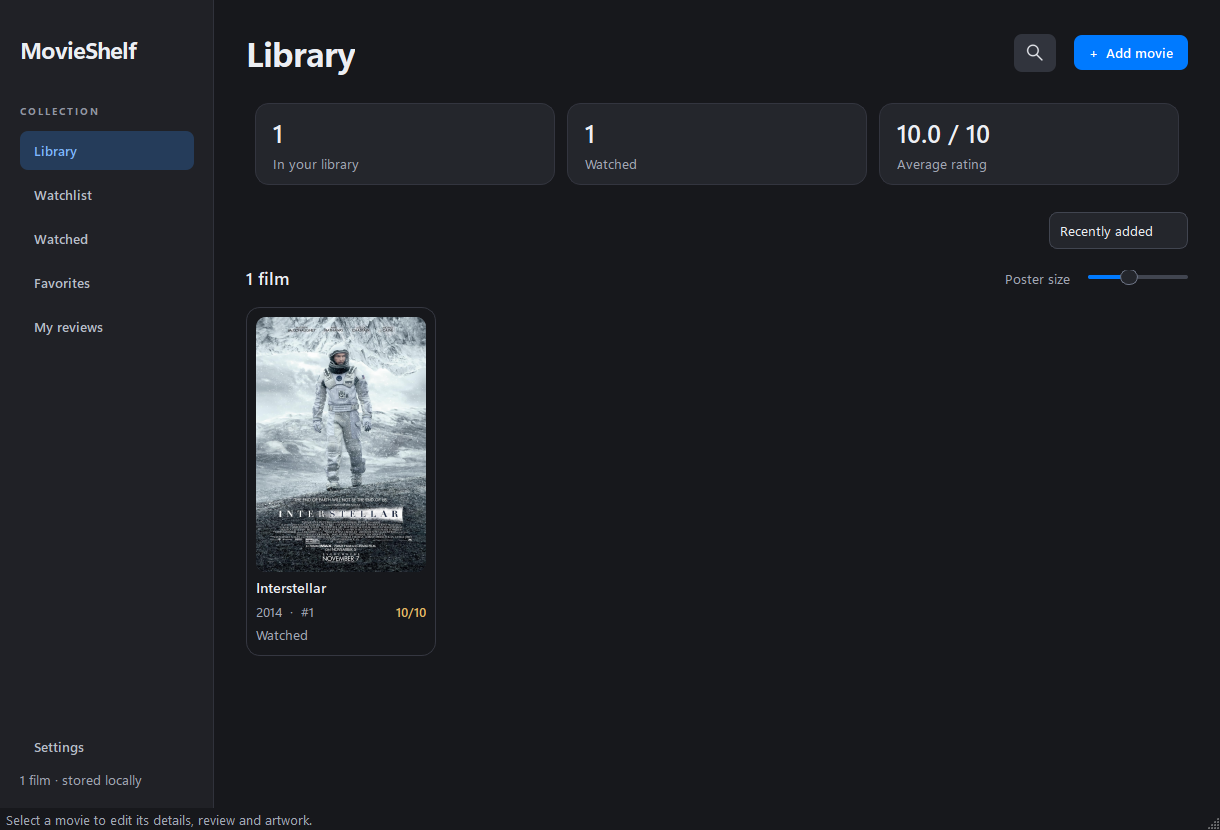
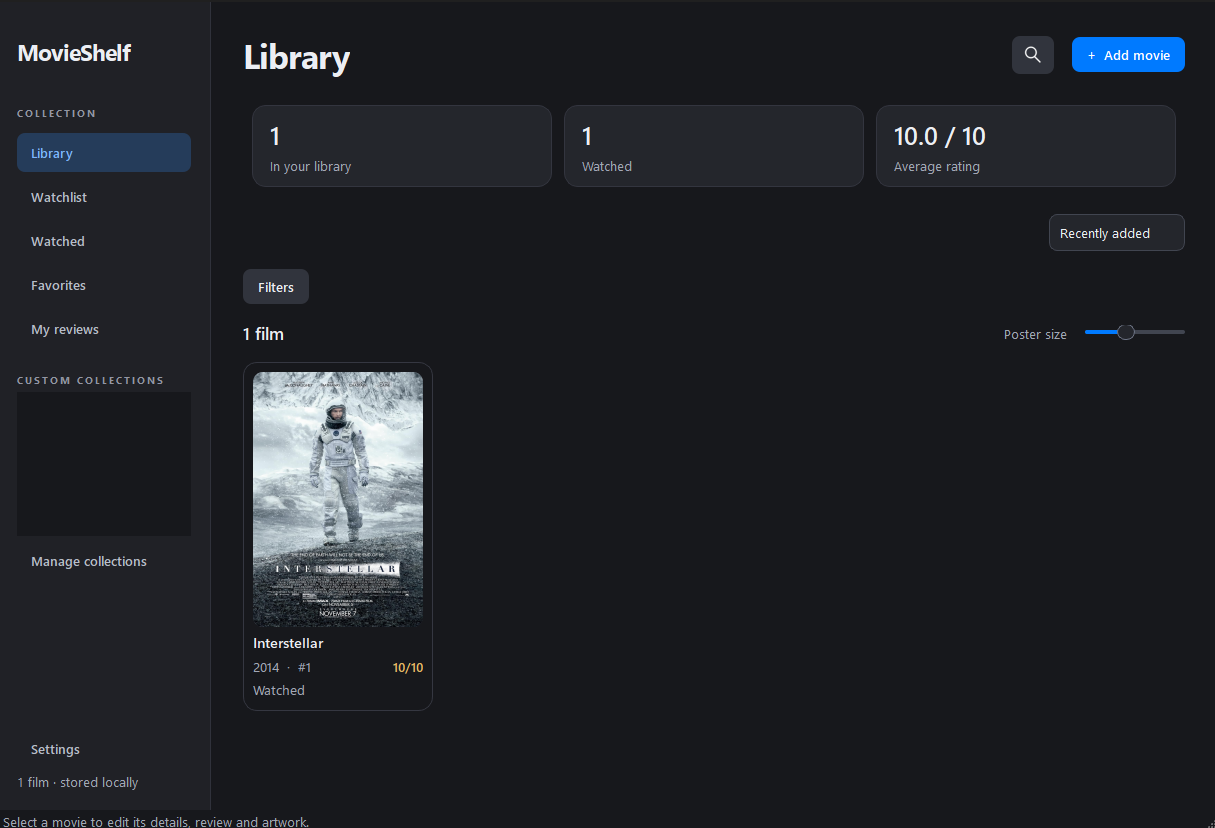
docs: screenshots updated, todo.md

diff --git a/desktop/TODO.md b/desktop/TODO.md
@@ -11,7 +11,7 @@
 
 # Completed Ideas
 
-- [-] Add Kazakh* and Russian interface localization.
-- [-] Add advanced filters for year, rating, watch status, and favorites.
-- [-] Support dragging images onto the poster editor and previewing the final crop at different card sizes.
-- [-] Add genres, tags, and custom collections for organizing films.
+- [X] Add Kazakh* and Russian interface localization.
+- [X] Add advanced filters for year, rating, watch status, and favorites.
+- [X] Support dragging images onto the poster editor and previewing the final crop at different card sizes.
+- [X] Add genres, tags, and custom collections for organizing films.
